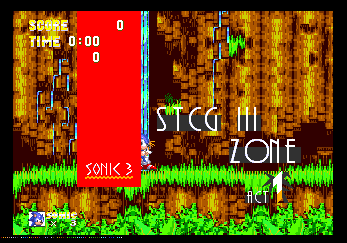
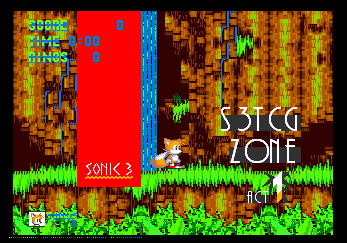
0123456789().! support

diff --git a/src/s3tcg-api.py b/src/s3tcg-api.py
@@ -7,17 +7,19 @@
 global XPOS, INDEX
 XPOS = 0
 INDEX = 0
-
+#I like: .,!,1
+#O like: 6, 9
+#Normal, 2,3,4,5,7,8,0,),(
 
 def Generate(TextToGenerate, Game):
     REGEX_STEP = ''
     for CHARACTER in TextToGenerate:
-        if CHARACTER.isalpha() or CHARACTER == " ":
+        if CHARACTER.isalpha() or CHARACTER == " " or CHARACTER in "0123456789().!":
             REGEX_STEP += CHARACTER # remove unmapped characters
 
     
     LENGTH_STEP = REGEX_STEP.replace(" ", "")
-    CHARS_STEP = list(dict.fromkeys(list(LENGTH_STEP.upper().replace("E","").replace("N","").replace("O","").replace("Z",""))))
+    CHARS_STEP = list(dict.fromkeys(list(LENGTH_STEP.upper().replace("E","").replace("N","").replace("O","").replace("0","").replace("Z",""))))
     print(CHARS_STEP)
     L_STEP_HEX = hex(len(LENGTH_STEP)).upper()
     POS_AFTER_0 = False    
@@ -47,25 +49,25 @@ def Generate(TextToGenerate, Game):
 # Set up some letter variables
         if XPOS > 0xFFFF:
             XPOS -= 0x10000
-        if CURR_CHAR in USED_CHARS and CURR_CHAR != "Z"  and CURR_CHAR != "O"  and CURR_CHAR != "N"  and CURR_CHAR != "E" :
+        if CURR_CHAR in USED_CHARS and CURR_CHAR != "Z"  and CURR_CHAR != "O" and CURR_CHAR != "0"  and CURR_CHAR != "N"  and CURR_CHAR != "E" :
          
             REUSED_CHAR = USED_CHARS.index(CURR_CHAR)
             REUSED_INDEX = INDECIES[REUSED_CHAR]
             OUTPUT.append(f"\t" + REUSED_INDEX + f" {hex(XPOS).replace('0x', '$').upper()} ;{CURR_CHAR}")
-            if CURR_CHAR == "I" or CURR_CHAR == "L" or CURR_CHAR == "J":
+            if CURR_CHAR == "I" or CURR_CHAR == "L" or CURR_CHAR == "J" or CURR_CHAR == "." or CURR_CHAR == "1" or CURR_CHAR == "!":
                 XPOS += 0x8
-            elif CURR_CHAR == "M" or CURR_CHAR == "W" or CURR_CHAR == "Q":
+            elif CURR_CHAR == "M" or CURR_CHAR == "W" or CURR_CHAR == "Q" or CURR_CHAR == "6" or CURR_CHAR == "9":
                 XPOS += 0x9
             else:
                 XPOS += 0x10
-        elif CURR_CHAR == "I" or CURR_CHAR == "L" or CURR_CHAR == "J":
+        elif CURR_CHAR == "I" or CURR_CHAR == "L" or CURR_CHAR == "J" or CURR_CHAR == "." or CURR_CHAR == "1" or CURR_CHAR == "!":
             WIDTH = 0x2
             OUTPUT.append(f"\tdc.w {hex(WIDTH).replace('0x', '$').upper()}, {hex(INDEX+0x8000).replace('0x', '$').upper()}, {hex(XPOS).replace('0x', '$').upper()} ;{CURR_CHAR}")
             USED_CHARS.append(CURR_CHAR)
             INDECIES.append(f"dc.w {hex(WIDTH).replace('0x', '$').upper()}, {hex(INDEX+0x8000).replace('0x', '$').upper()},")
             XPOS += 0x8
             INDEX += 0x3
-        elif CURR_CHAR == "M" or CURR_CHAR == "W" or CURR_CHAR == "Q":
+        elif CURR_CHAR == "M" or CURR_CHAR == "W" or CURR_CHAR == "Q" or CURR_CHAR == "6" or CURR_CHAR == "9":
             WIDTH = 0xA
             INDECIES.append(f"dc.w {hex(WIDTH).replace('0x', '$').upper()}, {hex(INDEX+0x8000).replace('0x', '$').upper()},")
             USED_CHARS.append(CURR_CHAR)
@@ -79,7 +81,7 @@ def Generate(TextToGenerate, Game):
             else:
                 OUTPUT.append(f"\tdc.w $6, $8531, {hex(XPOS).replace('0x', '$').upper()} ;Z")          
             XPOS += 0x10
-        elif CURR_CHAR == "O":
+        elif CURR_CHAR == "O" or CURR_CHAR == "0":
             if Game.upper() == "SCE":
                 OUTPUT.append(f"\tdc.w $A, $8028, {hex(XPOS).replace('0x', '$').upper()} ;O")
             else:
